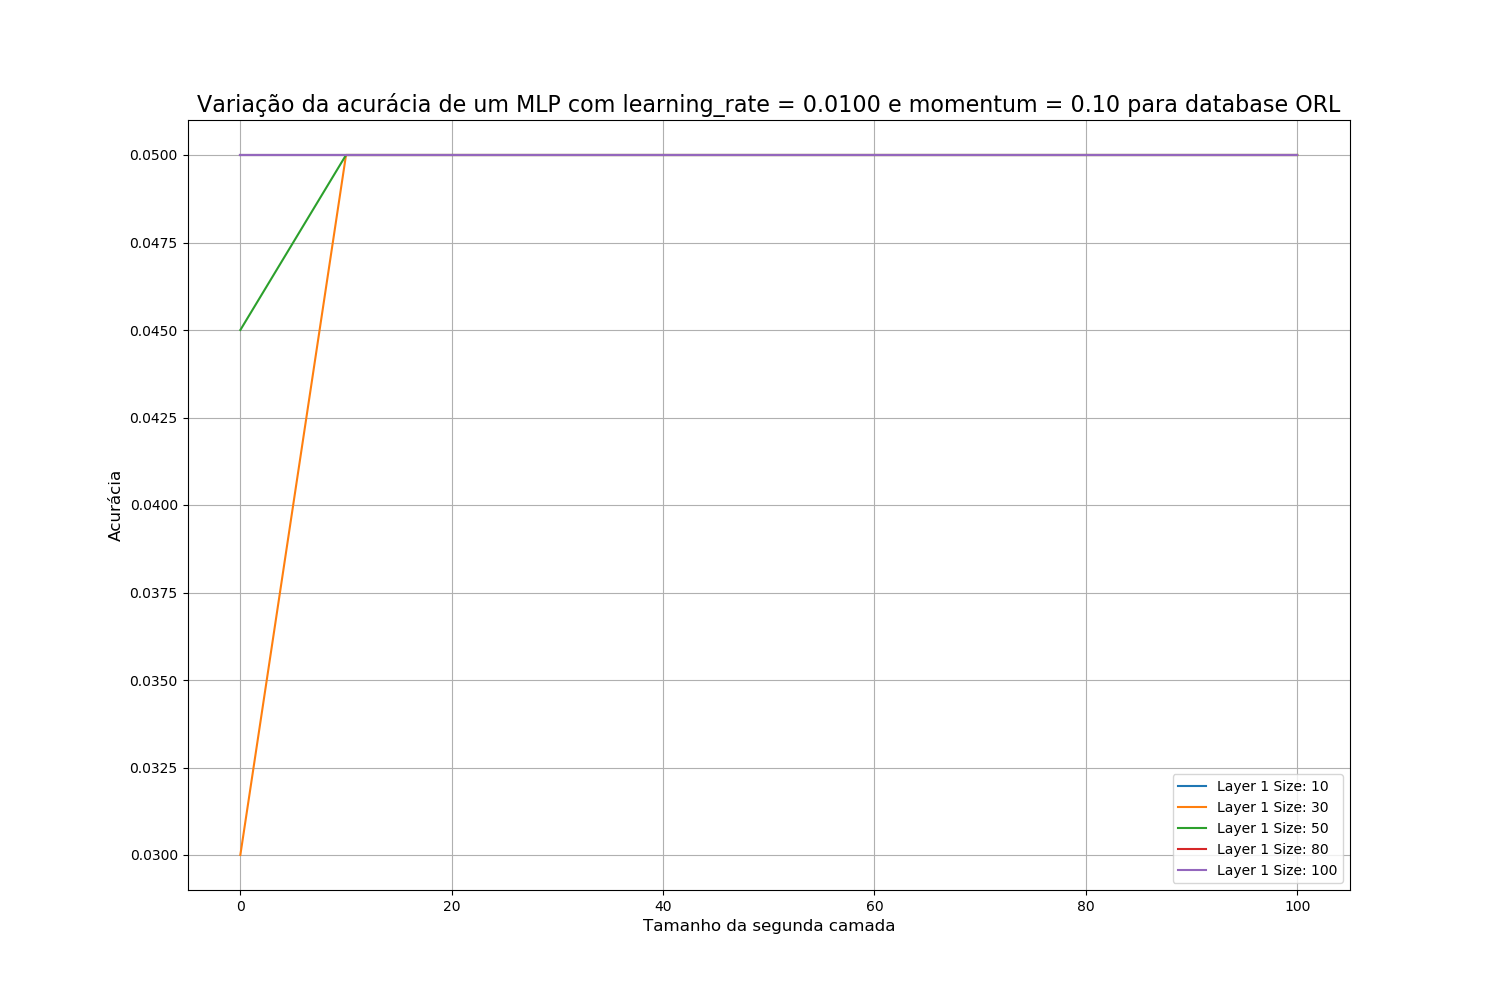
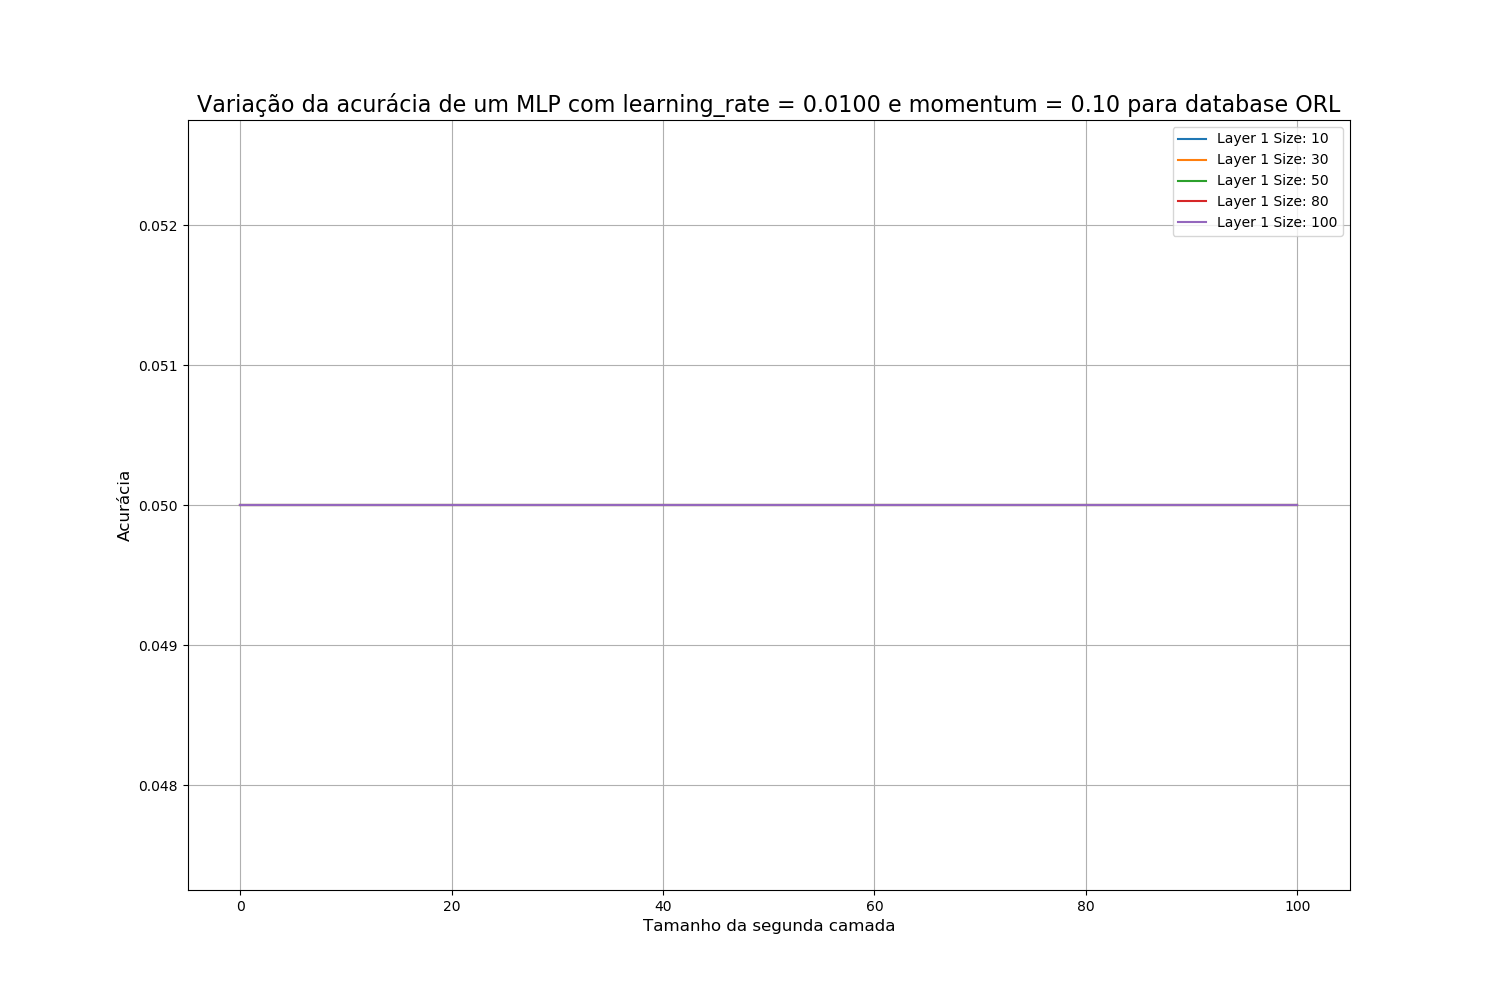
Aleatory value of rotation, training for both datasets, size of the cells personalizated for each dataset

diff --git a/Project/main.py b/Project/main.py
@@ -17,13 +17,13 @@ print("\tNúmero de pessoas: %d" % len(orl_faces))
 print("\tFaces por pessoas: %s" % [len(person) for person in orl_faces])
 
 icmc_faces = get_faces("./datasets/PessoasICMC")
-print("Pesosas ICMC:")
+print("Pessoas ICMC:")
 print("\tNúmero de pessoas: %d" % len(icmc_faces))
 print("\tFaces por pessoas: %s" % [len(person) for person in icmc_faces])
 
 print("---- Gerando faces extras para base Pessoas ICMC ----")
 augmented_icmc_faces = enhance_data(icmc_faces)
-print("Pesosas ICMC - Extendido:")
+print("Pessoas ICMC - Extendido:")
 print("\tNúmero de pessoas: %d" % len(augmented_icmc_faces))
 print("\tFaces por pessoas: %s" % [len(person) for person in augmented_icmc_faces])
 
@@ -39,61 +39,83 @@ if read_from_file:
 
 else:
     print("Gerando novas HOG features")
-    icmc_hogs = get_dataset_hogs(augmented_icmc_faces)
+    icmc_hogs = get_dataset_hogs(augmented_icmc_faces, 'icmc_hogs')
     save_hogs_dataset(icmc_hogs, 'icmc_hogs')
 
 
-    orl_hogs = get_dataset_hogs(orl_faces)
+    orl_hogs = get_dataset_hogs(orl_faces, 'orl_hogs')
     save_hogs_dataset(orl_hogs, 'orl_hogs')
 
+print("=============================== TRAINING SECTION ===============================")
 
-x, y = get_x_and_y(orl_hogs)
-database_name = "ORL"
+x_db = []
+y_db = []
+database = []
 
-print("Dimensão Features Originais: ", len(x[0]))
-print("===================================== KNN  =====================================")
+x_orl, y_orl = get_x_and_y(orl_hogs)
+x_icmc, y_icmc = get_x_and_y(icmc_hogs)
+database_name_orl = "ORL"
+database_name_icmc = "ICMC FACES"
 
-best_k, best_knn_acc = get_best_knn(x, y, database_name)
-# best_k = 1
-print("Melhor valor para k: %d com acurácia %2.2f" % (best_k, best_knn_acc*100))
+x_db.append(x_orl)
+x_db.append(x_icmc)
+y_db.append(y_orl)
+y_db.append(y_icmc)
+database.append(database_name_orl)
+database.append(database_name_icmc)
 
-best_knn = KNeighborsClassifier(n_neighbors=best_k)
-knn_description = "KNN com k = %s" % best_k
+print("Dimensão Features Originais: ")
+print("\tORL:", len(x_db[0][0]))
+print("\tICMC FACES:", len(x_db[1][0]))
 
-get_model_stats(x, y, best_knn, knn_description, database_name)
-
-
-print("===================================== MLP  =====================================")
-tolerance = 1e-1
-activation = 'logistic'
-
-best_learning_rate, best_momentum, best_layer1_size, best_layer2_size, best_acc = get_best_mlp(x, y, database_name)
-# best_learning_rate, best_momentum, best_layer1_size, best_layer2_size, best_acc = 1., 1.0, 50, 0, 0.81
-
-print("Melhor configuração para MLP")
-print("\tMelhor learning_rate: ", best_learning_rate)
-print("\tMelhor momentum: ", best_momentum)
-print("\tMelhor layer 1 size: ", best_layer1_size)
-print("\tMelhor layer 2 size: ", best_layer2_size)
+for x, y, database_name in zip(x_db, y_db, database):
+	print("\n=============================")
+	print("DATABASE: %s" % database_name)
+	print("=============================")
+	print("===================================== KNN  =====================================")
 
 
-layers_cfg = [best_layer1_size]
-if best_layer2_size > 0:
-    layers_cfg.append(best_layer2_size)
+	best_k, best_knn_acc = get_best_knn(x, y, database_name)
+	# best_k = 1
+	print("Melhor valor para k: %d com acurácia %2.2f%%" % (best_k, best_knn_acc*100))
+
+	best_knn = KNeighborsClassifier(n_neighbors=best_k)
+	knn_description = "KNN com k = %s" % best_k
+
+	get_model_stats(x, y, best_knn, knn_description, database_name)
 
 
-best_mlp = MLPClassifier(hidden_layer_sizes=layers_cfg, solver='sgd', momentum=best_momentum, tol=tolerance,
-                         max_iter=200, random_state=1, learning_rate='adaptive', learning_rate_init=best_learning_rate,
-                         activation=activation)
+	print("===================================== MLP  =====================================")
+	tolerance = 1e-1
+	activation = 'logistic'
 
-mlp_description = "MLP: Learning Rate: %.4f, Momentum: %.2f, Layer 1 Size: %d, Layer 2 Size: %d" %\
-                  (best_learning_rate, best_momentum, best_layer1_size, best_layer2_size)
+	best_learning_rate, best_momentum, best_layer1_size, best_layer2_size, best_acc = get_best_mlp(x, y, database_name)
+	# best_learning_rate, best_momentum, best_layer1_size, best_layer2_size, best_acc = 1., 1.0, 50, 0, 0.81
 
-get_model_stats(x, y, best_mlp, mlp_description, database_name)
+	print("Melhor configuração para MLP")
+	print("\tMelhor learning_rate: ", best_learning_rate)
+	print("\tMelhor momentum: ", best_momentum)
+	print("\tMelhor layer 1 size: ", best_layer1_size)
+	print("\tMelhor layer 2 size: ", best_layer2_size)
 
-print("===================================== PCA  =====================================")
-principal_components = get_PCA(x)
+
+	layers_cfg = [best_layer1_size]
+	if best_layer2_size > 0:
+	    layers_cfg.append(best_layer2_size)
 
 
-get_model_stats(principal_components, y, best_knn, knn_description, database_name + " PCA")
-get_model_stats(principal_components, y, best_mlp, mlp_description, database_name + " PCA")
+	best_mlp = MLPClassifier(hidden_layer_sizes=layers_cfg, solver='sgd', momentum=best_momentum, tol=tolerance,
+	                         max_iter=200, random_state=1, learning_rate='adaptive', learning_rate_init=best_learning_rate,
+	                         activation=activation)
+
+	mlp_description = "MLP: Learning Rate: %.4f, Momentum: %.2f, Layer 1 Size: %d, Layer 2 Size: %d" %\
+	                  (best_learning_rate, best_momentum, best_layer1_size, best_layer2_size)
+
+	get_model_stats(x, y, best_mlp, mlp_description, database_name)
+
+	print("===================================== PCA  =====================================")
+	principal_components = get_PCA(x)
+
+
+	get_model_stats(principal_components, y, best_knn, knn_description, database_name + " PCA")
+	get_model_stats(principal_components, y, best_mlp, mlp_description, database_name + " PCA")

diff --git a/Project/dataset.py b/Project/dataset.py
@@ -12,6 +12,8 @@ from skimage import data, io, filters, exposure
 from skimage.util import random_noise, img_as_uint, invert
 from skimage.transform import rotate
 
+import random
+
 from sys import platform as sys_pf
 if sys_pf == 'darwin':
     import matplotlib
@@ -77,11 +79,12 @@ def enhance_data(dataset):
             img_inversed = np.invert(person[0])
             person.append(img_inversed)
 
-            # Rotation by 30 degrees backward => needed to convert to uint16 type for saving in a file
-            img_rotated_backward = rotate(person[0], -40, mode='edge')
-            img_rotated_backward = exposure.rescale_intensity(img_rotated_backward, in_range='image', out_range='uint16')
-            img_rotated_backward = img_rotated_backward.astype(np.uint16)
-            person.append(img_rotated_backward)
+            # Rotation by a random number of degrees => needed to convert to uint16 type for saving in a file
+            angle = random.randint(-360, 360)
+            img_rotated = rotate(person[0], angle, mode='edge')
+            img_rotated = exposure.rescale_intensity(img_rotated, in_range='image', out_range='uint16')
+            img_rotated = img_rotated.astype(np.uint16)
+            person.append(img_rotated)
 
             # Rotation by 30 degrees backward => needed to convert to uint16 type for saving in a file
             # img_rotated_backward = rotate(person[0], 30, mode='edge')
@@ -107,12 +110,13 @@ def enhance_data(dataset):
             img_horizontal_flip = person[0][:, ::-1]    
             person.append(img_horizontal_flip)
 
-            # Rotation by 30 degrees backward => needed to convert to uint16 type for saving in a file
-            img_rotated_backward = rotate(img_horizontal_flip, -20, mode='edge')
-            img_rotated_backward = exposure.rescale_intensity(img_rotated_backward, in_range='image',
+            # Rotation by a random number of degrees => needed to convert to uint16 type for saving in a file
+            angle = random.randint(-360, 360)
+            img_rotated = rotate(img_horizontal_flip, angle, mode='edge')
+            img_rotated = exposure.rescale_intensity(img_rotated, in_range='image',
                                                               out_range='uint16')
-            img_rotated_backward = img_rotated_backward.astype(np.uint16)
-            person.append(img_rotated_backward)
+            img_rotated = img_rotated.astype(np.uint16)
+            person.append(img_rotated)
 
             # Vertical flip
             # img_vertical_flip = person[0][::-1, :]

diff --git a/Project/classification.py b/Project/classification.py
@@ -42,7 +42,7 @@ def get_x_and_y(features_dataset):
         a y numpy array containing the corresponding target class
         [
             [0],
-            [0],
+            [1],
             ...
             [19]
         ]
@@ -70,14 +70,16 @@ def get_best_knn(x, y, database_name):
     """
 
     # Parameters to be tested
-    ks = [1, 2, 3, 4, 5, 6, 7, 8, 9, 10]
+    #ks = [1, 2, 3, 4, 5, 6, 7, 8, 9, 10]
+    #ks = [1]
+    ks = [3, 5, 7]
 
     # Use stratified K-fold to compute the accuracy for each model
     skf = StratifiedKFold(n_splits=10)
     knn_accs = []
 
     for k in ks:
-        print("Training with k = ", k)
+        print("Training with k =", k)
         accs = []
         for train_index, test_index in skf.split(x, y):
             x_train, x_test = x[train_index], x[test_index]
@@ -127,14 +129,20 @@ def get_best_mlp(x, y, database_name):
     # Use stratified K-fold to compute the accuracy for each model
     skf = StratifiedKFold(n_splits=10)
 
-    learning_rates = [0.01, 0.1, 1]
+    #learning_rates = [0.01, 0.1, 1]
+    learning_rates = [1.0]
     # learning_rates = [2]
+    
     momentums = [0.1, 0.5, 1]
+    #momentums = [1.0]
     # momentums = [1]
+    
     layer1_sizes = [10, 30, 50, 80, 100]
+    #layer1_sizes = [50]
     # layer1_sizes = [10, 80]
+    
     layer2_sizes = [0, 10, 30, 50, 80, 100]
-
+    #layer2_sizes = [0]
 
     # For each learning_rate and momentum, we'll generate a graphic showing how the accuracy varyies for different
     # layer 2 sizes given a layer 1 size
@@ -231,8 +239,8 @@ def get_model_stats(x, y, model, model_name, database_name):
     model_precision = np.mean(precision)
 
     print("Database: %s, Modelo: %s" % (database_name, model_name))
-    print("\tAcurácia: %.2f" % model_acc)
-    print("\tPrecisão: %.2f" % model_precision)
+    print("\tAcurácia: %.5f" % model_acc)
+    print("\tPrecisão: %.5f" % model_precision)
 
     plt.figure(figsize=(15,10))
     plt.title("Matriz de Confusão para o modelo %s e database %s" % (model_name, database_name), fontsize=16)
@@ -257,6 +265,6 @@ def get_PCA(x):
 
         if np.sum(pca.explained_variance_ratio_) > 0.5:
             print("PCA:")
-            print("\tDimensão: ", n_components)
+            print("\tDimensão:", n_components)
             print("\tVariância recuperada dos dados originais: %2.2f%%" % (np.sum(pca.explained_variance_ratio_)*100))
             return pca.transform(x)

diff --git a/Project/features.py b/Project/features.py
@@ -9,7 +9,7 @@ from skimage import data, exposure
 import numpy as np
 
 
-def get_dataset_hogs(dataset):
+def get_dataset_hogs(dataset, dataset_name):
     """
     get_dataset_hogs gets the hog feature for each image in the dataset
     :param dataset: the data set to be used. It must have the structure
@@ -27,7 +27,7 @@ def get_dataset_hogs(dataset):
 
         ]
     """
-    return [[get_hog(img) for img in person] for person in dataset]
+    return [[get_hog(img, dataset_name) for img in person] for person in dataset]
 
 
 def save_hogs_dataset(dataset, file):
@@ -58,7 +58,7 @@ def read_hogs_dataset(file):
     """
     return np.load(file)
 
-def get_hog(img, print_hog=False):
+def get_hog(img, dataset_name, print_hog=False):
     """
     get_hog returns the hog feature for the given image
     @param img: the image to extract the hog feature
@@ -66,7 +66,10 @@ def get_hog(img, print_hog=False):
     """
 
     # Parameters
-    pixels_per_cell = (32,32)
+    if dataset_name == 'icmc_hogs':
+        pixels_per_cell = (32,32)
+    elif dataset_name == 'orl_hogs':
+        pixels_per_cell = (8,8)
     orientations = 8
     cell_per_block = (2,2)
     block_norm = 'L2'
